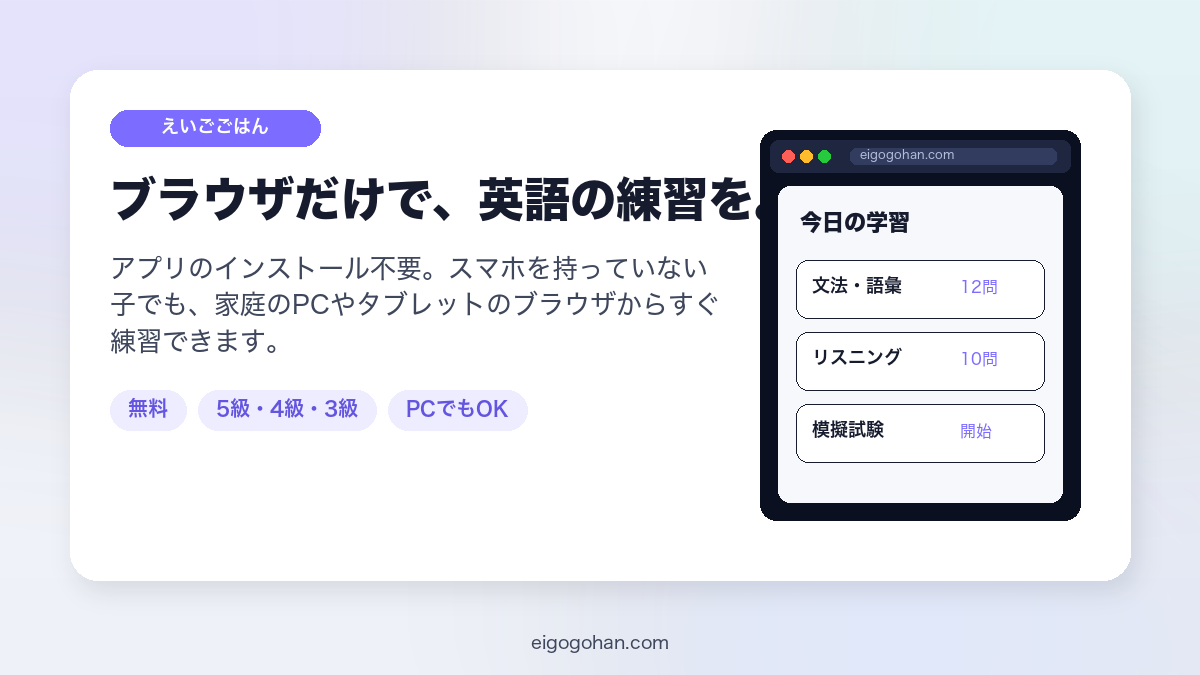
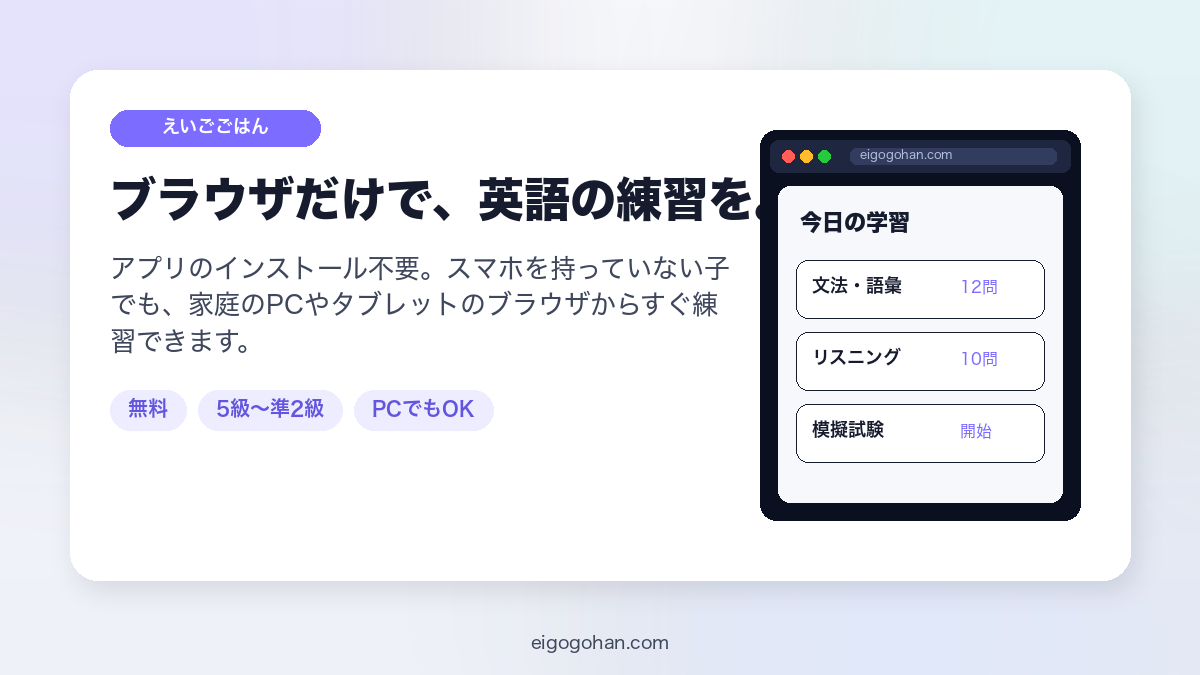
chore: update 12 file(s) (docs,eiken_project static,templates)

Changed region(s): [[0.0925, 0.3733, 0.6167, 0.5289], [0.2158, 0.5911, 0.4317, 0.6222], [0.74, 0.2178, 0.8017, 0.2489]]

diff --git a/templates/resources.html b/templates/resources.html
@@ -4,13 +4,13 @@
 <head>
     <meta charset="UTF-8">
     <meta name="viewport" content="width=device-width, initial-scale=1.0">
-    <title>英検®5級・4級・3級の練習とあわせて使える学習リソース - えいごごはん</title>
+    <title>英検®5級・4級・3級・準2級の練習とあわせて使える学習リソース - えいごごはん</title>
     {% include 'partials/_favicon.html' %}
-    <meta name="description" content="英検®5級・4級・3級の無料オリジナル練習とあわせて使える学習リソース案内。えいごごはんはブラウザで無料演習できる非公式の学習サイトです。過去問そのものは掲載していません。">
+    <meta name="description" content="英検®5級・4級・3級・準2級の無料オリジナル練習とあわせて使える学習リソース案内。えいごごはんはブラウザで無料演習できる非公式の学習サイトです。過去問そのものは掲載していません。">
     <meta name="robots" content="index, follow">
     <link rel="canonical" href="https://eigogohan.com/resources/">
 
-    <meta property="og:title" content="英検®5級・4級・3級の練習とあわせて使える学習リソース - えいごごはん">
+    <meta property="og:title" content="英検®5級・4級・3級・準2級の練習とあわせて使える学習リソース - えいごごはん">
     <meta property="og:description" content="英検®の無料オリジナル練習とあわせて使える学習のヒント。過去問そのものは掲載していません。">
     <meta property="og:type" content="article">
     <meta property="og:url" content="https://eigogohan.com/resources/">
@@ -19,7 +19,7 @@
     <meta property="og:image" content="https://eigogohan.com{% static 'eigogohan-og-image.png' %}">
 
     <meta name="twitter:card" content="summary_large_image">
-    <meta name="twitter:title" content="英検®5級・4級・3級の練習とあわせて使える学習リソース - えいごごはん">
+    <meta name="twitter:title" content="英検®5級・4級・3級・準2級の練習とあわせて使える学習リソース - えいごごはん">
     <meta name="twitter:description" content="無料のブラウザ練習とあわせて使える、級別の過去問・教材のヒント。">
     <meta name="twitter:image" content="https://eigogohan.com{% static 'eigogohan-og-image.png' %}">
 
@@ -147,7 +147,7 @@
                 <div class="content-card">
                     <h1 class="h3 fw-bold mb-3">あわせて使える学習リソース</h1>
                     <p>
-                        えいごごはん は、<strong>ブラウザで無料で試せる</strong>英検®5級・4級・3級のオリジナル練習サイトです。
+                        えいごごはん は、<strong>ブラウザで無料で試せる</strong>英検®5級・4級・3級・準2級のオリジナル練習サイトです。
                         
                         公式試験そのものではなく、試験形式の演習をウェブ上で解くための入口です。過去問そのものは掲載していません。
                     </p>

diff --git a/templates/partials/_trademark_notice.html b/templates/partials/_trademark_notice.html
@@ -9,6 +9,6 @@
   本サイトは公益財団法人 日本英語検定協会の公式サイトではありません。
 </p>
 <p class="mb-0 small text-muted">
-  5級・4級・3級の練習問題は、一通り見直しましたがまだまだ改善余地はあります。気づいた点はフィードバックへお願いします。
+  5級・4級・3級・準2級の練習問題は、一通り見直しましたがまだまだ改善余地はあります。気づいた点はフィードバックへお願いします。
   
 </p>

diff --git a/docs/solomaker_assets/generate_assets.py b/docs/solomaker_assets/generate_assets.py
@@ -219,7 +219,7 @@ def make_explain_01() -> Path:
     draw_wrapped(d, body, (110, 255), f_reg(26), MUTED, 620, line_gap=10)
 
     # feature pills
-    pills = ["無料", "5級・4級・3級", "PCでもOK"]
+    pills = ["無料", "5級〜準2級", "PCでもOK"]
     x = 110
     y = 390
     for p in pills:
@@ -299,34 +299,37 @@ def make_explain_03() -> Path:
     img = make_base(w, h)
     d = ImageDraw.Draw(img)
     brand_chip(d, 70, 48)
-    d.text((70, 110), "5級・4級・3級に対応", font=f_bold(40), fill=TEXT)
-    d.text((70, 170), "級ごとに最適化された問題セットで効率的に対策", font=f_reg(22), fill=MUTED)
+    d.text((70, 110), "5級・4級・3級・準2級に対応", font=f_bold(36), fill=TEXT)
+    d.text((70, 165), "級ごとに最適化された問題セットで効率的に対策", font=f_reg(22), fill=MUTED)
 
+    # 4枚に収めるためカードを細めにし、各級の主要形式を5項目で示す
     levels = [
         ("5級", "Level 5", "入門", ["文法・語彙", "会話補充", "語順選択", "リスニング", "模擬試験"], PRIMARY),
         ("4級", "Level 4", "初級", ["文法・語彙", "会話補充", "長文読解", "リスニング", "模擬試験"], PRIMARY_SOFT),
         ("3級", "Level 3", "中級", ["文法・語彙", "ライティング", "長文読解", "リスニング", "模擬試験"], TEAL),
+        ("準2級", "Pre-2", "高校初級", ["文法・語彙", "会話補充", "ライティング", "長文読解", "リスニング"], PRIMARY_DEEP),
     ]
-    card_w, card_h = 340, 360
-    gap = 28
-    total = 3 * card_w + 2 * gap
+    card_w, card_h = 255, 360
+    gap = 18
+    total = 4 * card_w + 3 * gap
     start_x = (w - total) // 2
-    y0 = 230
+    y0 = 220
+    pad = 18
     for i, (name, en, badge, tags, color) in enumerate(levels):
         x = start_x + i * (card_w + gap)
-        img = shadow_card(img, (x, y0, x + card_w, y0 + card_h), radius=24)
+        img = shadow_card(img, (x, y0, x + card_w, y0 + card_h), radius=22)
         d = ImageDraw.Draw(img)
         d.rounded_rectangle([x, y0, x + card_w, y0 + 8], radius=4, fill=color)
-        d.text((x + 28, y0 + 36), name, font=f_bold(30), fill=TEXT)
-        d.text((x + 28, y0 + 80), en, font=f_reg(18), fill=MUTED)
-        bw = text_width(d, badge, f_med(16)) + 24
-        d.rounded_rectangle([x + 28, y0 + 118, x + 28 + bw, y0 + 148], radius=12, fill=color)
-        d.text((x + 40, y0 + 122), badge, font=f_med(16), fill=WHITE)
-        yy = y0 + 180
+        d.text((x + pad, y0 + 32), name, font=f_bold(26), fill=TEXT)
+        d.text((x + pad, y0 + 72), en, font=f_reg(16), fill=MUTED)
+        bw = text_width(d, badge, f_med(15)) + 22
+        d.rounded_rectangle([x + pad, y0 + 108, x + pad + bw, y0 + 136], radius=12, fill=color)
+        d.text((x + pad + 11, y0 + 112), badge, font=f_med(15), fill=WHITE)
+        yy = y0 + 168
         for tag in tags:
-            d.ellipse([x + 32, yy + 6, x + 44, yy + 18], fill=color)
-            d.text((x + 56, yy), tag, font=f_reg(18), fill=MUTED)
-            yy += 32
+            d.ellipse([x + pad + 4, yy + 5, x + pad + 14, yy + 15], fill=color)
+            d.text((x + pad + 24, yy), tag, font=f_reg(16), fill=MUTED)
+            yy += 30
 
     footer_url(d, w, h)
     out = OUT / "explain_03_levels.png"
@@ -454,7 +457,7 @@ def make_og_image() -> Path:
     sub = "EigoGohan"
     d.text((105, 240), sub, font=f_med(28), fill=TEAL)
 
-    line = "5級・4級・3級の無料オンライン練習"
+    line = "5級・4級・3級・準2級の無料オンライン練習"
     d.text((100, 310), line, font=f_med(32), fill=(210, 216, 235))
 
     features = "文法・語彙 / 長文読解 / リスニング / 模擬試験"

diff --git a/eiken_project/tests.py b/eiken_project/tests.py
@@ -252,10 +252,7 @@ class ResourcesPageTest(TestCase):
             response = Client().get(reverse('resources'))
         self.assertEqual(response.status_code, 200)
         self.assertContains(response, 'あわせて使える学習リソース')
-        self.assertContains(response, '5級')
-        self.assertContains(response, '4級')
-        self.assertContains(response, '3級')
-        self.assertContains(response, '準2級')
+        self.assertContains(response, '5級・4級・3級・準2級')
         self.assertNotContains(response, 'ベータ公開です。問題はまだ改善中です。')
         self.assertContains(response, '5級の過去問・問題集')
         self.assertContains(response, '4級の長文対策')
@@ -405,7 +402,7 @@ class AppShellSeoTest(TestCase):
         self.assertEqual(response.status_code, 200)
         self.assertContains(response, 'noindex, follow')
         self.assertContains(response, 'えいごごはん')
-        self.assertContains(response, '5級・4級・3級')
+        self.assertContains(response, '5級・4級・3級・準2級')
         self.assertContains(response, 'eigogohan-og-image.png')
         self.assertContains(response, 'favicon.svg')
         self.assertNotContains(response, 'eiken-og-image.png')

diff --git a/eiken_project/tests_maintenance_notice.py b/eiken_project/tests_maintenance_notice.py
@@ -2,7 +2,7 @@ from django.contrib.auth import get_user_model
 from django.test import Client, TestCase
 from django.urls import reverse
 
-FOOTER_NOTE = 'まだまだ改善余地はあります'
+FOOTER_NOTE = '5級・4級・3級・準2級の練習問題は、一通り見直しましたがまだまだ改善余地はあります'
 ABOUT_NOTE = '練習問題は制作者1人で作っています'
 OLD_BANNER = '問題は公開中。品質は上げていきます。'
 
